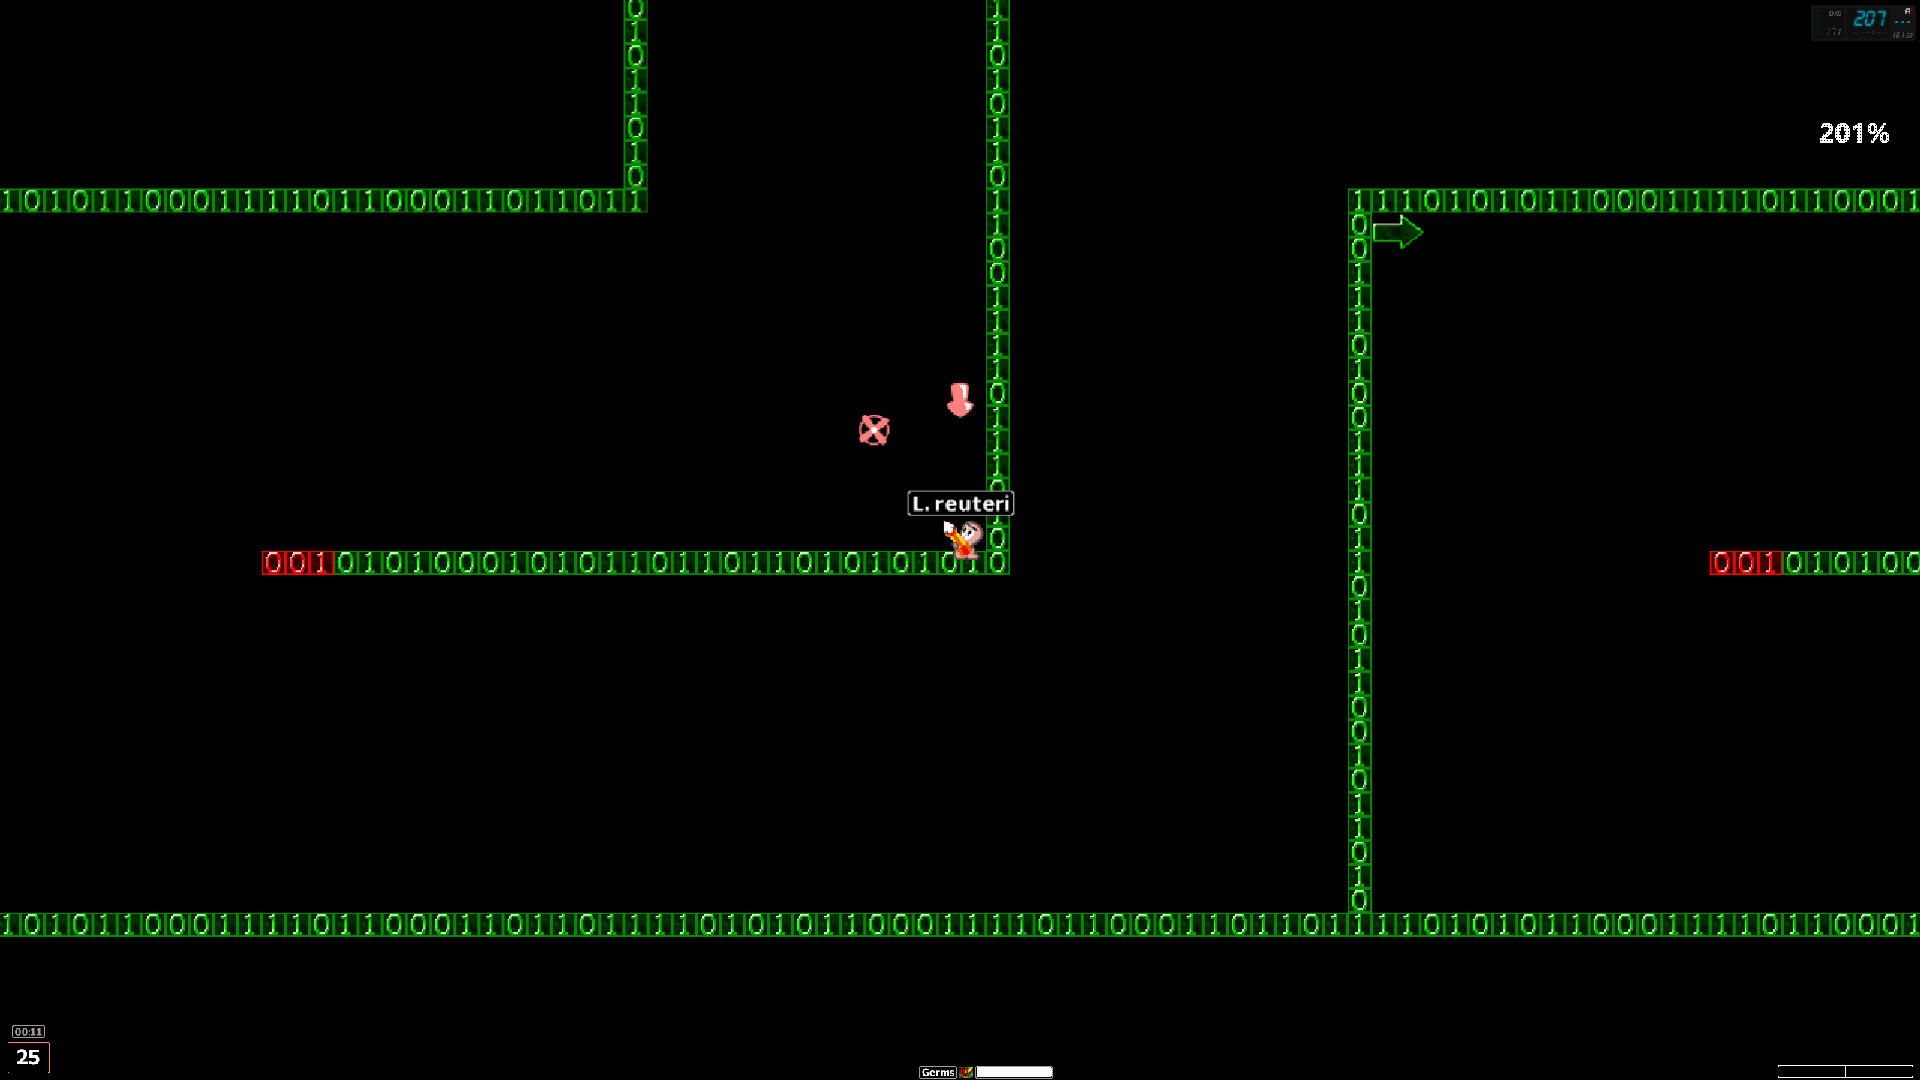
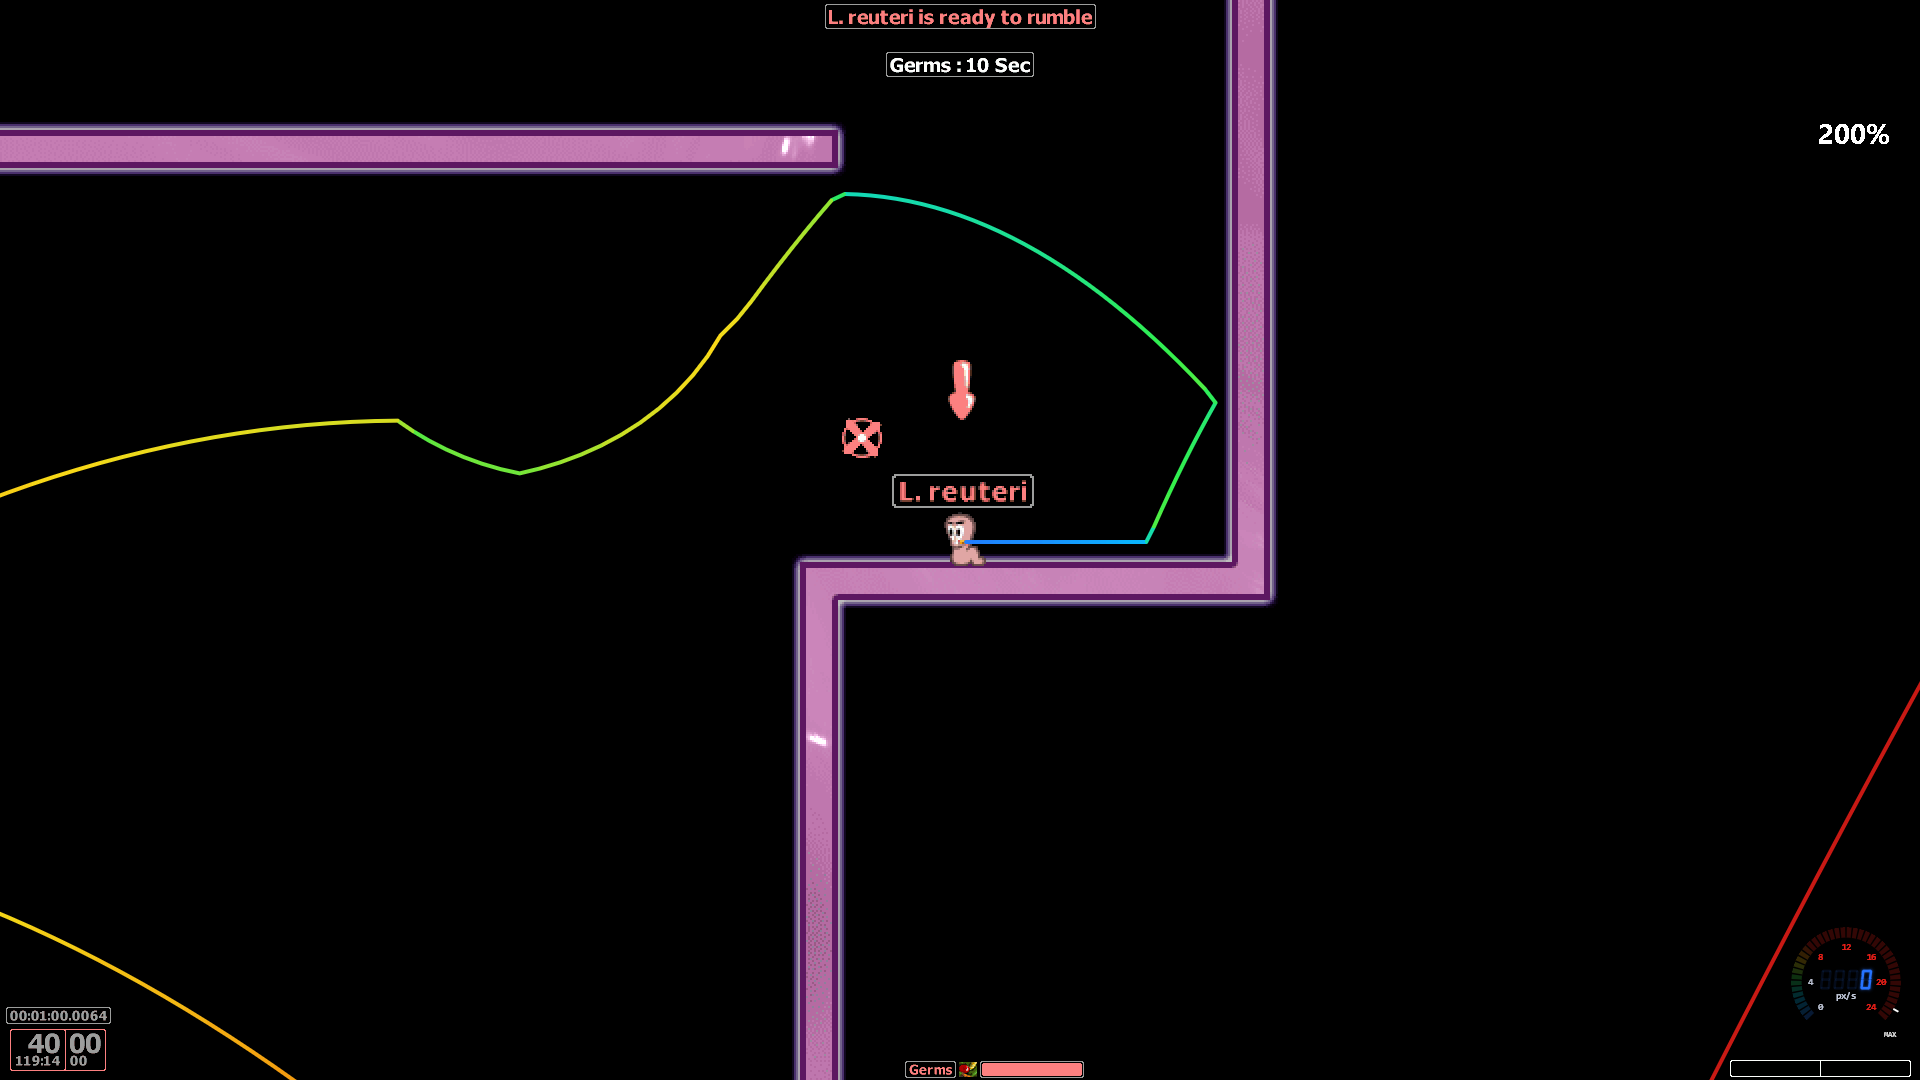
README: new GIF and screenshots with the 4.3 beta
The GIF shows the big jump with the auto zoom, the speedometer and the
movement line coloured by speed; the zoom screenshots are all the same
moment; the speedometer's dial has a picture of its own.

diff --git a/README.md b/README.md
@@ -14,11 +14,12 @@ size, and a small number (for example `150%`) shows the zoom while you change it
 > same way), and please [open an issue](https://github.com/GermsWorms/wkMapZoom/issues) with the log (see Notes; its
 > first line says "wkMapZoom 4.3 beta").
 
-![Auto zoom and the movement line on a rope race map](screenshots/auto-zoom.gif)
+![Auto zoom, the speedometer and the movement line coloured by speed on a rope race map](screenshots/auto-zoom.gif)
 
-*The auto zoom on a big rope race map: it eases out as the worm heads into the open and back in where it gets tight
-(the number top right is the zoom), and at the turn's start the movement line shows where the worm went last turn (red
-in this capture; 4.3 colours it by speed).*
+*A big jump on a rope race map, with 4.3 beta. The auto zoom eases out to 38% as the worm heads into the open and goes
+back to 100% once it has landed (the number top right is the zoom), and the speedometer bottom right goes from blue to
+red. Then a cut to the next turn's start, where the movement line shows where the worm went last turn, coloured by speed
+(the jump is the long orange and red arc).*
 
 Also in the module:
 
@@ -38,12 +39,15 @@ Also in the module:
   earlier turns, and being knocked about in other players' turns, so the line always ends at the worm). It goes as soon
   as you move, or with "stays" it stays all turn. It follows the worm itself, so teleports (and the cursor while you
   aim them) are not drawn. *(4.3 beta)* It is coloured by how fast the worm went there, as the speedometer shows it:
-  blue slow, through green and yellow, red from the speed zoom's start speed (or all red: `TurnLineColour=red`).
+  blue slow, through cyan, green, yellow and orange, red from the speed zoom's start speed (or all red:
+  `TurnLineColour=red`).
 - **Speedometer** *(4.3 beta, on by default: Esc > Map zoom options > Speedometer, or `Speedometer=off`)*. The speed
   of the worm whose turn it is (yours in your turns) in pixels a second, as a see-through digital dial in the bottom
-  right corner (or just the number, or above the worm): a ring lit up to the speed, blue when slow and red from the
-  speed zoom's start speed, the turn's best and its average. WA caps a worm's speed at 1600 px/s straight down or
-  across and 2263 px/s diagonally (MAX on the dial).
+  right corner (or just the number, or above the worm): a ring lit up to the speed, blue when slow, through cyan, green,
+  yellow and orange, red from the speed zoom's start speed (the number takes the same colour), the turn's best and its
+  average. WA caps a worm's speed at 1600 px/s straight down or across and 2263 px/s diagonally (MAX on the dial).<br>
+  <a href="screenshots/speedometer.png"><img src="screenshots/speedometer-dial.png" width="240" alt="The speedometer's dial at 1678 px/s: the ring lit from blue to red, the number in red, and the turn's average under it"></a><br>
+  *The dial in the middle of the jump above, at 1678 px/s (shown larger than in the game; click it for the whole screen).*
 - **Speed zoom** *(4.3 beta, off until switched on in the Esc menu)*. Past a speed (800 px/s) the map zooms out, more
   the faster you go: x0.7 for every 500 px/s over.
 - **Default zoom** *(4.3 beta)*. The zoom each game starts at; Ctrl + middle click and numpad * go back to it, and the
@@ -67,8 +71,9 @@ Also in the module:
 | **800%** | |
 | ![800%](screenshots/zoom-800.png) | |
 
-The same race map at each zoom: the HUD at the bottom (timer, team bar, wind) and the zoom number stay the same size,
-while the map, the worm and its name zoom.
+The same moment at each zoom, at a turn's start: the HUD (timer, team bar, wind, messages), the speedometer and the zoom
+number stay the same size, while the map, the worm and its name zoom. The coloured line is the worm's last turn, the
+movement line.
 
 ## Install
 
